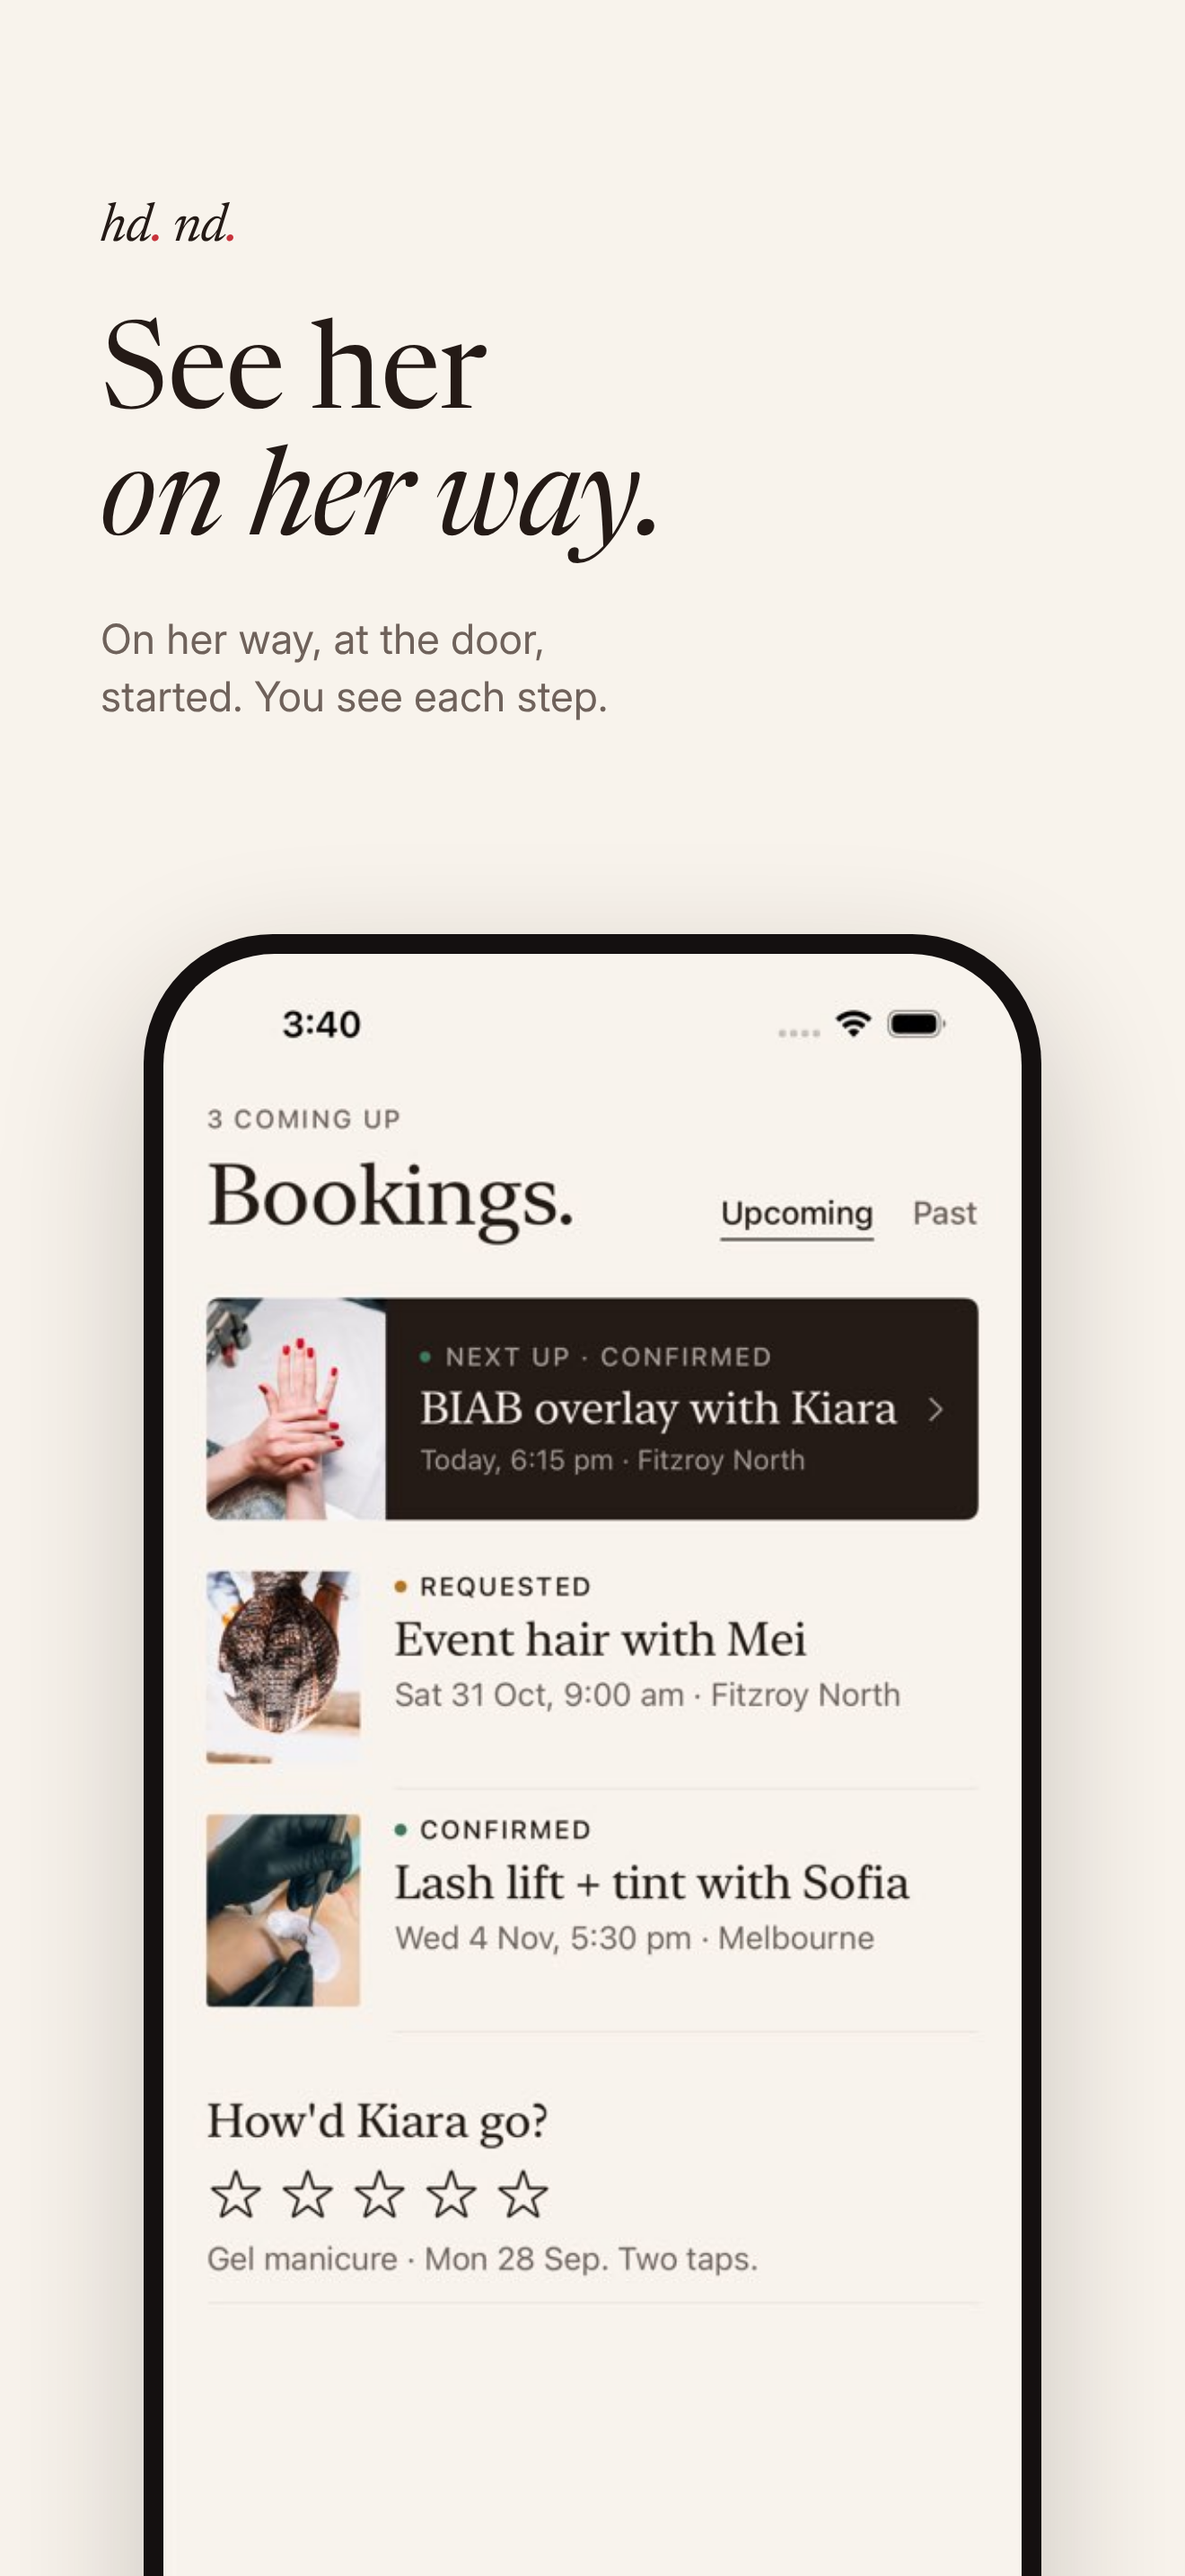
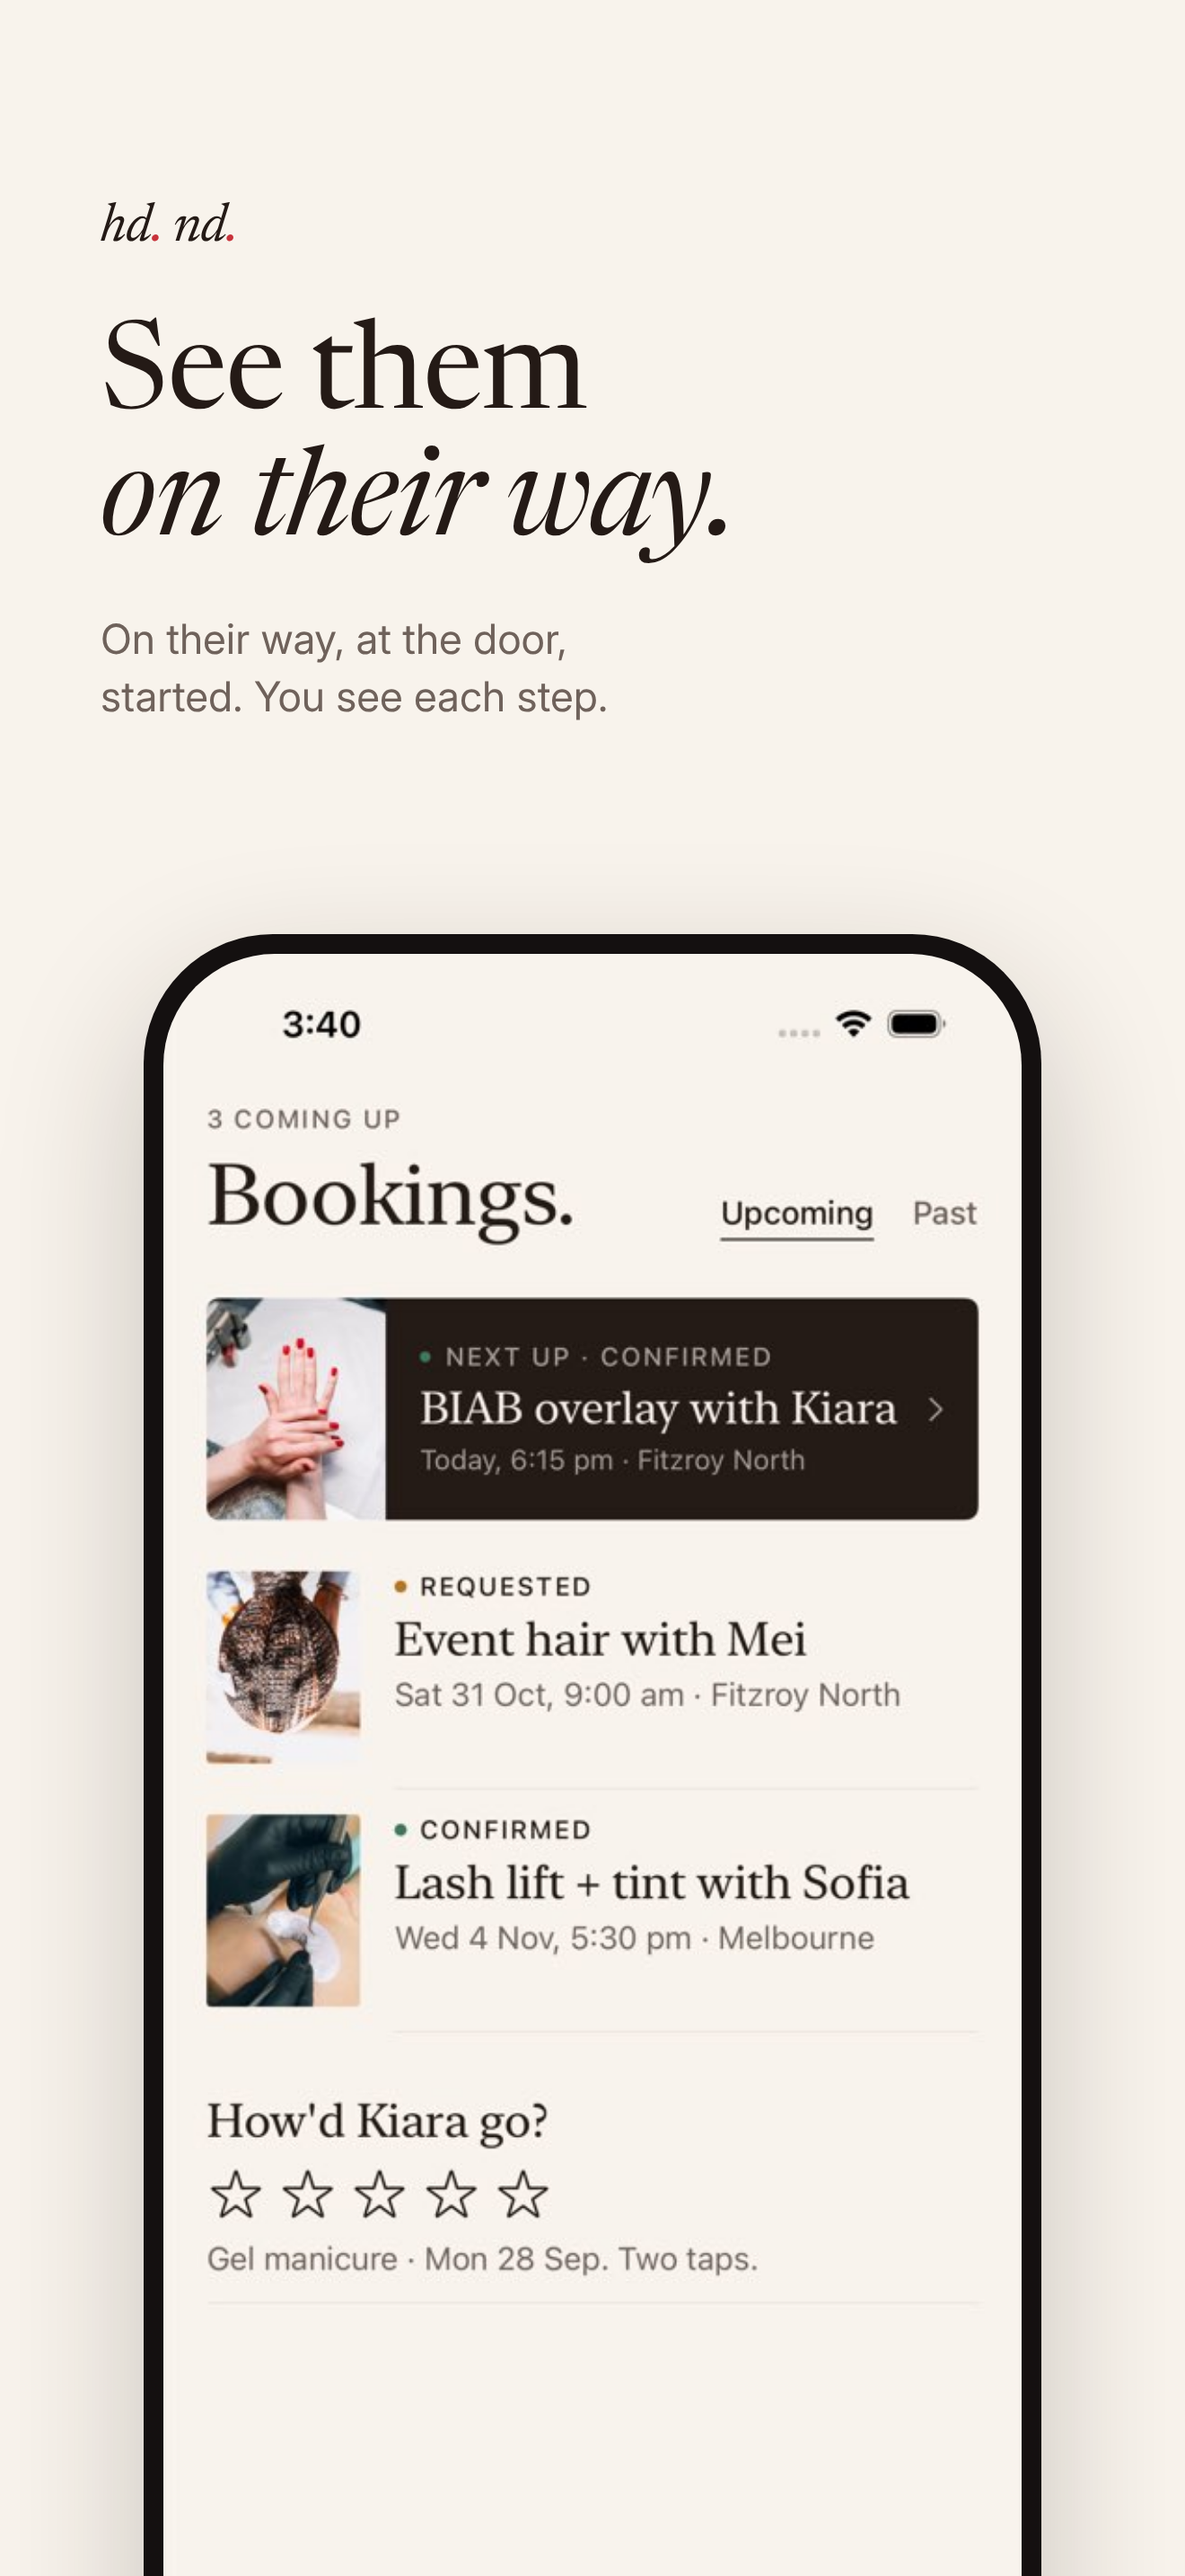
App Store copy: their/them for pros, not her
Claude-Session: https://claude.ai/code/session_01V3fgQkRmMxs5jjtqfekmEC

Changed region(s): [[0.2174, 0.1241, 0.6212, 0.2172], [0.2174, 0.2483, 0.2795, 0.2793]]

diff --git a/hair-done/docs/design/mockups/appstore/appstore-4.html b/hair-done/docs/design/mockups/appstore/appstore-4.html
@@ -13,4 +13,4 @@ body.ink p{color:rgba(248,243,236,.72)}
   border-radius:72px;box-shadow:0 30px 80px rgba(36,26,22,.22)}
 body.ink .phone{background:#000;box-shadow:0 0 0 1.5px rgba(248,243,236,.18)}
 .phone img{display:block;width:100%;border-radius:62px}
-</style></head><body class=""><div class="cap"><div class="mark">hd<span>.</span> nd<span>.</span></div><h1>See her<br><i>on her way.</i></h1><p>On her way, at the door, started. You see each step.</p></div><div class="phone"><img src="../../../qa/screens/light-client-bookings-1-top.jpg"></div></body></html>
+</style></head><body class=""><div class="cap"><div class="mark">hd<span>.</span> nd<span>.</span></div><h1>See them<br><i>on their way.</i></h1><p>On their way, at the door, started. You see each step.</p></div><div class="phone"><img src="../../../qa/screens/light-client-bookings-1-top.jpg"></div></body></html>

diff --git a/hair-done/docs/design/mockups/appstore/appstore-2.html b/hair-done/docs/design/mockups/appstore/appstore-2.html
@@ -13,4 +13,4 @@ body.ink p{color:rgba(248,243,236,.72)}
   border-radius:72px;box-shadow:0 30px 80px rgba(36,26,22,.22)}
 body.ink .phone{background:#000;box-shadow:0 0 0 1.5px rgba(248,243,236,.18)}
 .phone img{display:block;width:100%;border-radius:62px}
-</style></head><body class=""><div class="cap"><div class="mark">hd<span>.</span> nd<span>.</span></div><h1>See the price<br>before you <i>book.</i></h1><p>Her prices, her travel fee and her own work, up front.</p></div><div class="phone"><img src="screen-03-profile.jpg"></div></body></html>
+</style></head><body class=""><div class="cap"><div class="mark">hd<span>.</span> nd<span>.</span></div><h1>See the price<br>before you <i>book.</i></h1><p>Their prices, their travel fee and their own work, up front.</p></div><div class="phone"><img src="screen-03-profile.jpg"></div></body></html>

diff --git a/hair-done/docs/design/mockups/appstore/appstore-5.html b/hair-done/docs/design/mockups/appstore/appstore-5.html
@@ -13,4 +13,4 @@ body.ink p{color:rgba(248,243,236,.72)}
   border-radius:72px;box-shadow:0 30px 80px rgba(36,26,22,.22)}
 body.ink .phone{background:#000;box-shadow:0 0 0 1.5px rgba(248,243,236,.18)}
 .phone img{display:block;width:100%;border-radius:62px}
-</style></head><body class=""><div class="cap"><div class="mark">hd<span>.</span> nd<span>.</span></div><h1>Pay when<br>it's <i>done.</i></h1><p>Tip if you like. It all goes to her.</p></div><div class="phone"><img src="screen-12-receipt-sheet.jpg"></div></body></html>
+</style></head><body class=""><div class="cap"><div class="mark">hd<span>.</span> nd<span>.</span></div><h1>Pay when<br>it's <i>done.</i></h1><p>Tip if you like. It all goes to them.</p></div><div class="phone"><img src="screen-12-receipt-sheet.jpg"></div></body></html>

diff --git a/hair-done/docs/design/mockups/appstore/appstore-3.html b/hair-done/docs/design/mockups/appstore/appstore-3.html
@@ -13,4 +13,4 @@ body.ink p{color:rgba(248,243,236,.72)}
   border-radius:72px;box-shadow:0 30px 80px rgba(36,26,22,.22)}
 body.ink .phone{background:#000;box-shadow:0 0 0 1.5px rgba(248,243,236,.18)}
 .phone img{display:block;width:100%;border-radius:62px}
-</style></head><body class="ink"><div class="cap"><div class="mark">hd<span>.</span> nd<span>.</span></div><h1>Booked in<br><i>a minute.</i></h1><p>Nothing's charged until she's done.</p></div><div class="phone"><img src="screen-05-booked.jpg"></div></body></html>
+</style></head><body class="ink"><div class="cap"><div class="mark">hd<span>.</span> nd<span>.</span></div><h1>Booked in<br><i>a minute.</i></h1><p>Nothing's charged until they're done.</p></div><div class="phone"><img src="screen-05-booked.jpg"></div></body></html>

diff --git a/hair-done/docs/design/mockups/build_appstore.py b/hair-done/docs/design/mockups/build_appstore.py
@@ -19,13 +19,13 @@ SHOTS = [
     ("light-client-home-1-top.jpg", "tour", "A vetted pro,<br><i>at your door.</i>",
      "Hair, nails, makeup, lashes and brows, done at home.", False),
     ("03-profile.png", "mockup", "See the price<br>before you <i>book.</i>",
-     "Her prices, her travel fee and her own work, up front.", False),
+     "Their prices, their travel fee and their own work, up front.", False),
     ("05-booked.png", "mockup", "Booked in<br><i>a minute.</i>",
-     "Nothing's charged until she's done.", True),
-    ("light-client-bookings-1-top.jpg", "tour", "See her<br><i>on her way.</i>",
-     "On her way, at the door, started. You see each step.", False),
+     "Nothing's charged until they're done.", True),
+    ("light-client-bookings-1-top.jpg", "tour", "See them<br><i>on their way.</i>",
+     "On their way, at the door, started. You see each step.", False),
     ("12-receipt-sheet.png", "mockup", "Pay when<br>it's <i>done.</i>",
-     "Tip if you like. It all goes to her.", False),
+     "Tip if you like. It all goes to them.", False),
     ("light-pro-today-1-top.jpg", "tour", "Pros: your diary,<br><i>your prices.</i>",
      "Take requests, get paid to your bank. Same app.", False),
 ]

diff --git a/hair-done/docs/app-store/listing.md b/hair-done/docs/app-store/listing.md
@@ -37,19 +37,19 @@ hair done, nails done, everything done.
 Hair Done brings a vetted beauty pro to you. Blow-dries, braids, gel nails, lashes, brows, makeup for the big night: booked in a minute, done at home.
 
 KNOW IT ALL BEFORE YOU BOOK
-Every pro shows her prices, her travel fee and photos of her own work. You see the full total, the time and who's coming before you tap Book. No quotes, no back-and-forth in the DMs.
+Every pro shows their prices, their travel fee and photos of their own work. You see the full total, the time and who's coming before you tap Book. No quotes, no back-and-forth in the DMs.
 
 PROS WE'VE CHECKED
-Every pro sends photo ID and a selfie, and we check her details before she's listed. Reviews come only from people who've actually booked her.
+Every pro sends photo ID and a selfie, and we check their details before they're listed. Reviews come only from people who've actually booked them.
 
 PAY WHEN IT'S DONE
-We hold the total on your card when you book, and nothing's charged until she's finished. Pay in the app with a tip if you like (tips go to her in full), or we'll charge your card 12 hours later. Something not right? Tap "Something wrong?" and we hold off while a person looks.
+We hold the total on your card when you book, and nothing's charged until they've finished. Pay in the app with a tip if you like (tips go to them in full), or we'll charge your card 12 hours later. Something not right? Tap "Something wrong?" and we hold off while a person looks.
 
 ON THE DAY
-See when she's on her way, when she's at the door and when she's started. Message her in the app. Your receipt is on the booking and in your inbox.
+See when they're on their way, when they're at the door and when they've started. Message them in the app. Your receipt is on the booking and in your inbox.
 
 FAIR CANCELLING
-Cancel 24 hours or more before and it's free. If she cancels, every dollar comes back.
+Cancel 24 hours or more before and it's free. If they cancel, every dollar comes back.
 
 FOR PROS
 Set up Pro mode in the same app: your services and prices, your travel area, your hours. Take requests or turn on instant book. Get paid to your bank through Stripe. Our fee is 12% of a booking, and tips are yours.
